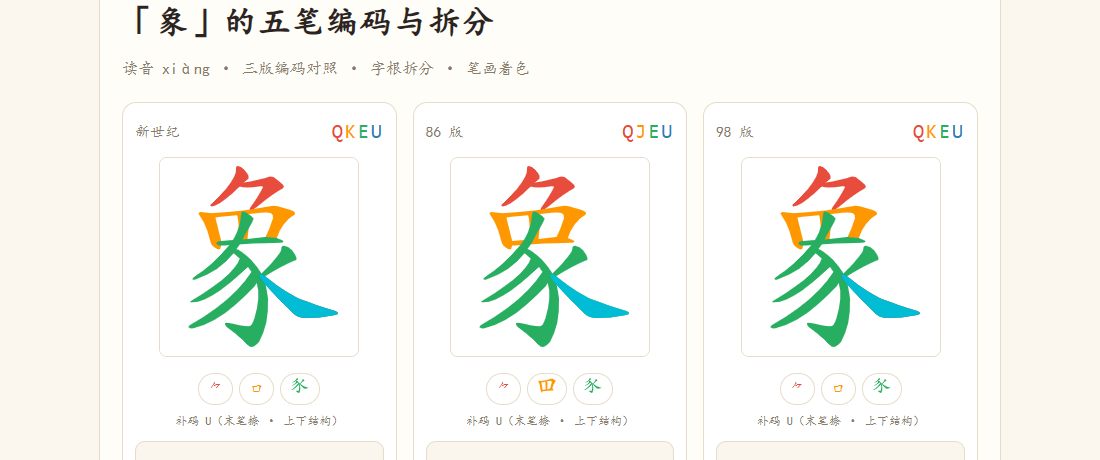
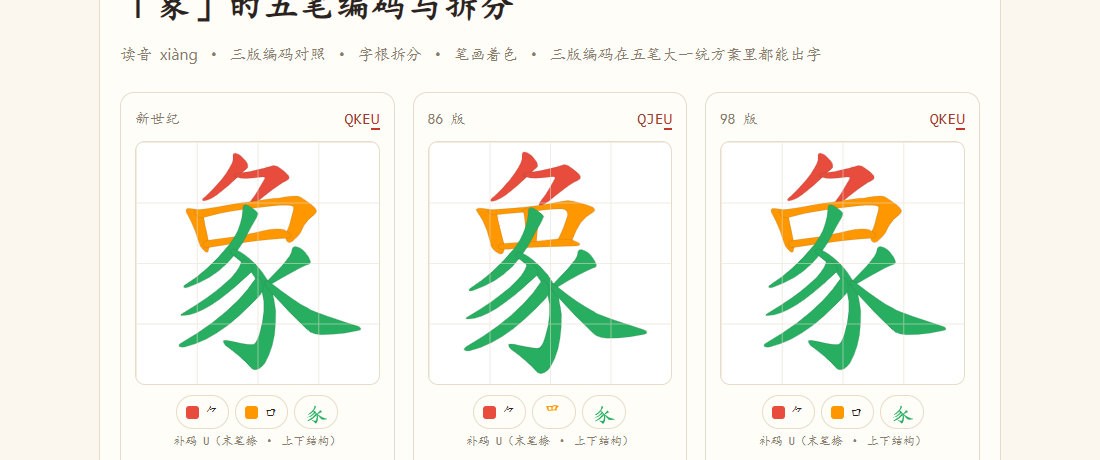
fix(char): 象字笔画数据改用主站最新字形（12 笔）

diff --git a/char/象.html b/char/象.html
@@ -103,7 +103,7 @@
 
   <div class="hero"><div class="vers"><div class="vcard">
       <div class="vhead"><span class="vtag">新世纪</span><span class="vcode">QKE<span class="supcode">U</span></span></div>
-      <div class="art"><svg viewBox="0 0 1024 1024" xmlns="http://www.w3.org/2000/svg"><rect width="1024" height="1024" fill="#fff"/><g transform="translate(0,900) scale(1,-1)"><path d="M 433.33 773.17Q 442.67 782.5 450.97 787.69Q 460.3 793.91 458.22 805.31Q 457.18 815.68 437.48 837.45Q 418.82 856.12 404.31 858.19Q 390.82 859.23 392.89 840.57Q 399.12 814.64 340.01 738.95Q 310.99 704.74 272.62 668.44Q 263.29 662.22 261.21 658.07Q 257.06 648.74 267.44 649.79Q 304.76 649.79 412.6 752.42L 433.33 773.17Z" fill="#E74C3C"/><path d="M 505.92 650.81Q 594.06 723.39 627.24 737.92Q 646.94 747.25 635.53 761.77Q 623.09 775.25 586.8 801.17Q 570.21 808.43 554.66 800.13Q 545.32 795.97 467.55 778.34Q 450.97 775.25 433.33 773.17C 402.23 769.02 382.53 761.77 412.6 752.42Q 434.37 742.06 519.4 753.47Q 528.73 754.5 530.81 751.39Q 533.91 748.29 528.73 741.02Q 496.59 681.93 474.81 654.96Q 470.67 650.81 468.59 645.63C 452 619.71 482.07 631.12 505.92 650.81Z" fill="#E74C3C"/><path d="M 263.15 613.77Q 248.8 617.5 222.29 619.98Q 207.93 622.45 202.41 618.73Q 194.68 614.4 204.62 603.88Q 241.06 554.95 258.73 476.34Q 259.84 452.19 284.14 436.09Q 305.11 420.61 311.75 431.75Q 316.16 437.94 317.27 447.24L 316.16 471.38Q 288.56 580.96 287.45 592.73C 285.24 609.45 285.24 609.45 263.15 613.77Z" fill="#FF9800"/><path d="M 604.41 486.87Q 635.32 574.16 688.33 600.78Q 709.32 612.53 690.54 624.92Q 670.66 634.21 608.82 650.31Q 587.84 655.88 561.34 649.69Q 448.69 625.53 263.15 613.77C 230.03 611.3 255.42 589.02 287.45 592.73Q 298.5 593.35 312.85 595.82Q 353.71 600.15 397.89 603.88L 443.17 608.20Q 556.91 623.06 573.48 614.40Q 587.84 606.35 584.52 589.02Q 567.95 534.53 545.87 491.20C 537.04 473.24 597.78 468.9 604.41 486.87Z" fill="#FF9800"/><path d="M 453.11 481.29Q 457.53 533.91 461.94 573.54Q 466.36 597.67 443.17 608.20C 418.87 621.2 389.05 621.83 397.89 603.88Q 404.51 600.15 410.03 477.57C 411.14 459 452 462.71 453.11 481.29Z" fill="#FF9800"/><path d="M 317.27 447.24Q 324.99 447.24 334.94 447.85Q 425.5 457.14 620.97 461.47Q 635.32 462.09 637.53 468.29Q 637.53 473.86 604.41 486.87L 545.87 491.20Q 544.77 491.81 542.55 491.20Q 496.17 486.87 453.11 481.29L 410.03 477.57Q 359.23 475.09 316.16 471.38C 283.03 468.9 284.14 446.61 317.27 447.24Z" fill="#27AE60"/><path d="M 396.16 429.08Q 406.22 445.18 418.29 462.28L 437.41 497.50Q 444.45 510.58 452.5 525.67Q 485.71 581 483.69 587.04Q 479.67 594.09 460.55 608.17C 436.41 626.28 420.31 633.32 418.29 603.14Q 417.29 559.88 397.17 513.59Q 391.13 501.52 384.09 487.44L 362.96 455.24Q 290.52 367.71 222.1 316.40Q 199.96 301.3 171.8 281.18Q 164.75 275.15 169.78 272.12Q 175.82 269.11 185.88 273.13Q 309.63 315.39 380.06 406.95L 396.16 429.08Z" fill="#27AE60"/><path d="M 524.94 302.31Q 491.74 360.66 438.42 401.91Q 411.25 424.05 396.16 429.08C 369 443.17 355.91 426.06 380.06 406.95Q 381.07 405.94 385.09 402.92Q 398.17 392.86 412.26 380.79L 454.52 336.52Q 463.57 324.44 472.63 310.36L 500.8 253.01Q 521.93 179.56 488.72 71.91Q 476.65 35.69 465.58 31.67Q 452.5 25.63 378.05 42.73Q 337.81 51.79 335.79 44.74Q 334.79 37.7 346.86 24.62Q 419.3 -27.7 449.48 -63.92Q 462.56 -80.02 475.64 -77.00Q 494.76 -73.98 512.87 -48.83Q 562.17 33.67 559.15 172.52Q 549.09 235.9 547.08 241.94L 524.94 302.31Z" fill="#27AE60"/><path d="M 412.26 380.79Q 391.13 299.29 163.74 162.46Q 145.64 152.39 167.77 153.40Q 249.27 153.4 403.2 289.23Q 409.24 295.27 454.52 336.52C 476.65 356.64 422.32 408.96 412.26 380.79Z" fill="#27AE60"/><path d="M 472.63 310.36Q 379.06 164.47 155.7 35.69Q 142.62 25.63 150.67 21.60Q 159.72 15.57 172.8 19.59Q 305.61 49.77 451.5 197.67Q 497.78 243.96 496.77 246.97Q 497.78 249.99 500.8 253.01C 516.9 278.16 489.73 335.51 472.63 310.36Z" fill="#27AE60"/><path d="M 543.05 288.22Q 640.65 346.58 689.95 367.71Q 709.07 370.72 706.04 382.80Q 702.02 398.9 683.91 421.03Q 665.8 442.16 642.66 446.19Q 627.57 447.19 626.56 427.07Q 627.57 404.93 524.94 302.31C 503.81 281.18 516.9 273.13 543.05 288.22Z" fill="#27AE60"/><path d="M 547.08 241.94Q 614.49 166.48 688.94 96.05Q 713.09 71.91 752.33 71.91Q 824.77 70.9 899.22 87.00Q 918.33 90.01 919.34 95.05Q 922.37 102.09 906.27 108.13Q 728.18 165.48 703.03 179.56Q 700.01 182.58 696.99 183.58Q 632.6 216.79 543.05 288.22C 517.9 308.34 486.71 309.35 547.08 241.94Z" fill="#555"/><path d="M 547.08 241.94Q 614.49 166.48 688.94 96.05Q 713.09 71.91 752.33 71.91Q 824.77 70.9 899.22 87.00Q 918.33 90.01 919.34 95.05Q 922.37 102.09 906.27 108.13Q 728.18 165.48 703.03 179.56Q 700.01 182.58 696.99 183.58Q 632.6 216.79 543.05 288.22C 517.9 308.34 486.71 309.35 547.08 241.94Z" fill="#00BCD4"/></g></svg></div>
+      <div class="art"><svg class="glyph" viewBox="0 0 1024 1024" xmlns="http://www.w3.org/2000/svg"></rect><g transform="translate(0, 900) scale(1, -1)"><path d="M 448 771 Q 457 780 465 785 Q 474 791 472 802 Q 471 812 452 833 Q 434 851 420 853 Q 407 854 409 836 Q 415 811 358 738 Q 330 705 293 670 Q 284 664 282 660 Q 278 651 288 652 Q 324 652 428 751 L 448 771 Z" fill="#E74C3C" stroke="#333" stroke-width="0.5" data-stroke-index="0" style="cursor: pointer; transition: fill 0.25s;"></path><path d="M 518 653 Q 603 723 635 737 Q 654 746 643 760 Q 631 773 596 798 Q 580 805 565 797 Q 556 793 481 776 Q 465 773 448 771 C 418 767 399 760 428 751 Q 449 741 531 752 Q 540 753 542 750 Q 545 747 540 740 Q 509 683 488 657 Q 484 653 482 648 C 466 623 495 634 518 653 Z" fill="#E74C3C" stroke="#333" stroke-width="0.5" data-stroke-index="1" style="cursor: pointer; transition: fill 0.25s;"></path><path d="M 261 614 Q 248 618 228 619 Q 215 622 213 616 Q 207 609 217 594 Q 242 552 264 481 Q 268 459 283 446 Q 302 425 306 442 Q 307 448 308 455 L 305 485 Q 305 486 305 489 Q 290 556 286 581 C 281 609 281 609 261 614 Z" fill="#FF9800" stroke="#333" stroke-width="0.5" data-stroke-index="2" style="cursor: pointer; transition: fill 0.25s;"></path><path d="M 631 494 L 632 492 Q 636 476 648 476 Q 661 477 669 490 Q 676 494 694 517 Q 713 566 751 592 Q 770 605 755 622 Q 739 640 693 668 Q 678 678 599 663 Q 578 663 518 653 L 482 648 Q 430 642 383 633 Q 311 620 261 614 C 231 610 257 572 286 581 Q 346 600 450 615 L 492 620 Q 639 641 662 629 Q 668 625 663 607 Q 645 538 636 523 C 627 501 627 501 631 494 Z" fill="#FF9800" stroke="#333" stroke-width="0.5" data-stroke-index="3" style="cursor: pointer; transition: fill 0.25s;"></path><path d="M 450 475 Q 526 487 631 494 C 661 496 661 507 636 523 Q 612 547 497 516 Q 482 515 469 510 L 416 500 Q 358 493 305 485 C 275 481 278 451 308 455 L 395 468 L 450 475 Z" fill="#FF9800" stroke="#333" stroke-width="0.5" data-stroke-index="4" style="cursor: pointer; transition: fill 0.25s;"></path><path d="M 428 442 Q 438 458 450 475 L 469 510 Q 476 523 484 538 Q 517 593 515 599 Q 511 606 492 620 C 468 638 452 645 450 615 Q 449 572 429 526 Q 423 514 416 500 L 395 468 Q 323 381 255 330 Q 233 315 205 295 Q 198 289 203 286 Q 209 283 219 287 Q 342 329 412 420 L 428 442 Z" fill="#27AE60" stroke="#333" stroke-width="0.5" data-stroke-index="5" style="cursor: pointer; transition: fill 0.25s;"></path><path d="M 556 316 Q 523 374 470 415 Q 443 437 428 442 C 401 456 388 439 412 420 Q 413 419 417 416 Q 430 406 444 394 L 486 350 Q 495 338 504 324 L 532 267 Q 553 194 520 87 Q 508 51 497 47 Q 484 41 410 58 Q 370 67 368 60 Q 367 53 379 40 Q 451 -12 481 -48 Q 494 -64 507 -61 Q 526 -58 544 -33 Q 593 49 590 187 Q 580 250 578 256 L 556 316 Z" fill="#27AE60" stroke="#333" stroke-width="0.5" data-stroke-index="6" style="cursor: pointer; transition: fill 0.25s;"></path><path d="M 444 394 Q 423 313 197 177 Q 179 167 201 168 Q 282 168 435 303 Q 441 309 486 350 C 508 370 454 422 444 394 Z" fill="#27AE60" stroke="#333" stroke-width="0.5" data-stroke-index="7" style="cursor: pointer; transition: fill 0.25s;"></path><path d="M 504 324 Q 411 179 189 51 Q 176 41 184 37 Q 193 31 206 35 Q 338 65 483 212 Q 529 258 528 261 Q 529 264 532 267 C 548 292 521 349 504 324 Z" fill="#27AE60" stroke="#333" stroke-width="0.5" data-stroke-index="8" style="cursor: pointer; transition: fill 0.25s;"></path><path d="M 574 302 Q 671 360 720 381 Q 739 384 736 396 Q 732 412 714 434 Q 696 455 673 459 Q 658 460 657 440 Q 658 418 556 316 C 535 295 548 287 574 302 Z" fill="#27AE60" stroke="#333" stroke-width="0.5" data-stroke-index="9" style="cursor: pointer; transition: fill 0.25s;"></path><path d="M 578 256 Q 645 181 719 111 Q 743 87 782 87 Q 854 86 928 102 Q 947 105 948 110 Q 951 117 935 123 Q 758 180 733 194 Q 730 197 727 198 Q 663 231 574 302 C 549 322 518 323 578 256 Z" fill="#27AE60" stroke="#333" stroke-width="0.5" data-stroke-index="10" style="cursor: pointer; transition: fill 0.25s;"></path></g></svg></div>
       <div class="chips"><span class="chip"><i style="background:#E74C3C"></i>⺈</span><span class="chip"><i style="background:#FF9800"></i>口</span><span class="chip fragchip"><svg class="frag" viewBox="0 0 1024 1024" width="26" height="26"><g transform="translate(0,900) scale(1,-1)"><path d="M 428 442 Q 438 458 450 475 L 469 510 Q 476 523 484 538 Q 517 593 515 599 Q 511 606 492 620 C 468 638 452 645 450 615 Q 449 572 429 526 Q 423 514 416 500 L 395 468 Q 323 381 255 330 Q 233 315 205 295 Q 198 289 203 286 Q 209 283 219 287 Q 342 329 412 420 L 428 442 Z" fill="#27AE60"/><path d="M 556 316 Q 523 374 470 415 Q 443 437 428 442 C 401 456 388 439 412 420 Q 413 419 417 416 Q 430 406 444 394 L 486 350 Q 495 338 504 324 L 532 267 Q 553 194 520 87 Q 508 51 497 47 Q 484 41 410 58 Q 370 67 368 60 Q 367 53 379 40 Q 451 -12 481 -48 Q 494 -64 507 -61 Q 526 -58 544 -33 Q 593 49 590 187 Q 580 250 578 256 L 556 316 Z" fill="#27AE60"/><path d="M 444 394 Q 423 313 197 177 Q 179 167 201 168 Q 282 168 435 303 Q 441 309 486 350 C 508 370 454 422 444 394 Z" fill="#27AE60"/><path d="M 504 324 Q 411 179 189 51 Q 176 41 184 37 Q 193 31 206 35 Q 338 65 483 212 Q 529 258 528 261 Q 529 264 532 267 C 548 292 521 349 504 324 Z" fill="#27AE60"/><path d="M 574 302 Q 671 360 720 381 Q 739 384 736 396 Q 732 412 714 434 Q 696 455 673 459 Q 658 460 657 440 Q 658 418 556 316 C 535 295 548 287 574 302 Z" fill="#27AE60"/><path d="M 578 256 Q 645 181 719 111 Q 743 87 782 87 Q 854 86 928 102 Q 947 105 948 110 Q 951 117 935 123 Q 758 180 733 194 Q 730 197 727 198 Q 663 231 574 302 C 549 322 518 323 578 256 Z" fill="#27AE60"/></g></svg></span></div>
       <div class="vsup">补码 U（末笔捺 · 上下结构）</div>
       <div class="rule-ver">
@@ -113,7 +113,7 @@
       </div>
     </div><div class="vcard">
       <div class="vhead"><span class="vtag">86 版</span><span class="vcode">QJE<span class="supcode">U</span></span></div>
-      <div class="art"><svg viewBox="0 0 1024 1024" xmlns="http://www.w3.org/2000/svg"><rect width="1024" height="1024" fill="#fff"/><g transform="translate(0,900) scale(1,-1)"><path d="M 433.33 773.17Q 442.67 782.5 450.97 787.69Q 460.3 793.91 458.22 805.31Q 457.18 815.68 437.48 837.45Q 418.82 856.12 404.31 858.19Q 390.82 859.23 392.89 840.57Q 399.12 814.64 340.01 738.95Q 310.99 704.74 272.62 668.44Q 263.29 662.22 261.21 658.07Q 257.06 648.74 267.44 649.79Q 304.76 649.79 412.6 752.42L 433.33 773.17Z" fill="#E74C3C"/><path d="M 505.92 650.81Q 594.06 723.39 627.24 737.92Q 646.94 747.25 635.53 761.77Q 623.09 775.25 586.8 801.17Q 570.21 808.43 554.66 800.13Q 545.32 795.97 467.55 778.34Q 450.97 775.25 433.33 773.17C 402.23 769.02 382.53 761.77 412.6 752.42Q 434.37 742.06 519.4 753.47Q 528.73 754.5 530.81 751.39Q 533.91 748.29 528.73 741.02Q 496.59 681.93 474.81 654.96Q 470.67 650.81 468.59 645.63C 452 619.71 482.07 631.12 505.92 650.81Z" fill="#E74C3C"/><path d="M 263.15 613.77Q 248.8 617.5 222.29 619.98Q 207.93 622.45 202.41 618.73Q 194.68 614.4 204.62 603.88Q 241.06 554.95 258.73 476.34Q 259.84 452.19 284.14 436.09Q 305.11 420.61 311.75 431.75Q 316.16 437.94 317.27 447.24L 316.16 471.38Q 288.56 580.96 287.45 592.73C 285.24 609.45 285.24 609.45 263.15 613.77Z" fill="#FF9800"/><path d="M 604.41 486.87Q 635.32 574.16 688.33 600.78Q 709.32 612.53 690.54 624.92Q 670.66 634.21 608.82 650.31Q 587.84 655.88 561.34 649.69Q 448.69 625.53 263.15 613.77C 230.03 611.3 255.42 589.02 287.45 592.73Q 298.5 593.35 312.85 595.82Q 353.71 600.15 397.89 603.88L 443.17 608.20Q 556.91 623.06 573.48 614.40Q 587.84 606.35 584.52 589.02Q 567.95 534.53 545.87 491.20C 537.04 473.24 597.78 468.9 604.41 486.87Z" fill="#FF9800"/><path d="M 453.11 481.29Q 457.53 533.91 461.94 573.54Q 466.36 597.67 443.17 608.20C 418.87 621.2 389.05 621.83 397.89 603.88Q 404.51 600.15 410.03 477.57C 411.14 459 452 462.71 453.11 481.29Z" fill="#FF9800"/><path d="M 317.27 447.24Q 324.99 447.24 334.94 447.85Q 425.5 457.14 620.97 461.47Q 635.32 462.09 637.53 468.29Q 637.53 473.86 604.41 486.87L 545.87 491.20Q 544.77 491.81 542.55 491.20Q 496.17 486.87 453.11 481.29L 410.03 477.57Q 359.23 475.09 316.16 471.38C 283.03 468.9 284.14 446.61 317.27 447.24Z" fill="#FF9800"/><path d="M 396.16 429.08Q 406.22 445.18 418.29 462.28L 437.41 497.50Q 444.45 510.58 452.5 525.67Q 485.71 581 483.69 587.04Q 479.67 594.09 460.55 608.17C 436.41 626.28 420.31 633.32 418.29 603.14Q 417.29 559.88 397.17 513.59Q 391.13 501.52 384.09 487.44L 362.96 455.24Q 290.52 367.71 222.1 316.40Q 199.96 301.3 171.8 281.18Q 164.75 275.15 169.78 272.12Q 175.82 269.11 185.88 273.13Q 309.63 315.39 380.06 406.95L 396.16 429.08Z" fill="#27AE60"/><path d="M 524.94 302.31Q 491.74 360.66 438.42 401.91Q 411.25 424.05 396.16 429.08C 369 443.17 355.91 426.06 380.06 406.95Q 381.07 405.94 385.09 402.92Q 398.17 392.86 412.26 380.79L 454.52 336.52Q 463.57 324.44 472.63 310.36L 500.8 253.01Q 521.93 179.56 488.72 71.91Q 476.65 35.69 465.58 31.67Q 452.5 25.63 378.05 42.73Q 337.81 51.79 335.79 44.74Q 334.79 37.7 346.86 24.62Q 419.3 -27.7 449.48 -63.92Q 462.56 -80.02 475.64 -77.00Q 494.76 -73.98 512.87 -48.83Q 562.17 33.67 559.15 172.52Q 549.09 235.9 547.08 241.94L 524.94 302.31Z" fill="#27AE60"/><path d="M 412.26 380.79Q 391.13 299.29 163.74 162.46Q 145.64 152.39 167.77 153.40Q 249.27 153.4 403.2 289.23Q 409.24 295.27 454.52 336.52C 476.65 356.64 422.32 408.96 412.26 380.79Z" fill="#27AE60"/><path d="M 472.63 310.36Q 379.06 164.47 155.7 35.69Q 142.62 25.63 150.67 21.60Q 159.72 15.57 172.8 19.59Q 305.61 49.77 451.5 197.67Q 497.78 243.96 496.77 246.97Q 497.78 249.99 500.8 253.01C 516.9 278.16 489.73 335.51 472.63 310.36Z" fill="#27AE60"/><path d="M 543.05 288.22Q 640.65 346.58 689.95 367.71Q 709.07 370.72 706.04 382.80Q 702.02 398.9 683.91 421.03Q 665.8 442.16 642.66 446.19Q 627.57 447.19 626.56 427.07Q 627.57 404.93 524.94 302.31C 503.81 281.18 516.9 273.13 543.05 288.22Z" fill="#27AE60"/><path d="M 547.08 241.94Q 614.49 166.48 688.94 96.05Q 713.09 71.91 752.33 71.91Q 824.77 70.9 899.22 87.00Q 918.33 90.01 919.34 95.05Q 922.37 102.09 906.27 108.13Q 728.18 165.48 703.03 179.56Q 700.01 182.58 696.99 183.58Q 632.6 216.79 543.05 288.22C 517.9 308.34 486.71 309.35 547.08 241.94Z" fill="#27AE60"/><path d="M 547.08 241.94Q 614.49 166.48 688.94 96.05Q 713.09 71.91 752.33 71.91Q 824.77 70.9 899.22 87.00Q 918.33 90.01 919.34 95.05Q 922.37 102.09 906.27 108.13Q 728.18 165.48 703.03 179.56Q 700.01 182.58 696.99 183.58Q 632.6 216.79 543.05 288.22C 517.9 308.34 486.71 309.35 547.08 241.94Z" fill="#00BCD4"/></g></svg></div>
+      <div class="art"><svg class="glyph" viewBox="0 0 1024 1024" xmlns="http://www.w3.org/2000/svg"></rect><g transform="translate(0, 900) scale(1, -1)"><path d="M 433.33 773.17Q 442.67 782.5 450.97 787.69Q 460.3 793.91 458.22 805.31Q 457.18 815.68 437.48 837.45Q 418.82 856.12 404.31 858.19Q 390.82 859.23 392.89 840.57Q 399.12 814.64 340.01 738.95Q 310.99 704.74 272.62 668.44Q 263.29 662.22 261.21 658.07Q 257.06 648.74 267.44 649.79Q 304.76 649.79 412.6 752.42L 433.33 773.17Z" fill="#E74C3C" stroke="#333" stroke-width="0.5" data-stroke-index="0" style="cursor: pointer; transition: fill 0.25s;"></path><path d="M 505.92 650.81Q 594.06 723.39 627.24 737.92Q 646.94 747.25 635.53 761.77Q 623.09 775.25 586.8 801.17Q 570.21 808.43 554.66 800.13Q 545.32 795.97 467.55 778.34Q 450.97 775.25 433.33 773.17C 402.23 769.02 382.53 761.77 412.6 752.42Q 434.37 742.06 519.4 753.47Q 528.73 754.5 530.81 751.39Q 533.91 748.29 528.73 741.02Q 496.59 681.93 474.81 654.96Q 470.67 650.81 468.59 645.63C 452 619.71 482.07 631.12 505.92 650.81Z" fill="#E74C3C" stroke="#333" stroke-width="0.5" data-stroke-index="1" style="cursor: pointer; transition: fill 0.25s;"></path><path d="M 263.15 613.77Q 248.8 617.5 222.29 619.98Q 207.93 622.45 202.41 618.73Q 194.68 614.4 204.62 603.88Q 241.06 554.95 258.73 476.34Q 259.84 452.19 284.14 436.09Q 305.11 420.61 311.75 431.75Q 316.16 437.94 317.27 447.24L 316.16 471.38Q 288.56 580.96 287.45 592.73C 285.24 609.45 285.24 609.45 263.15 613.77Z" fill="#FF9800" stroke="#333" stroke-width="0.5" data-stroke-index="2" style="cursor: pointer; transition: fill 0.25s;"></path><path d="M 604.41 486.87Q 635.32 574.16 688.33 600.78Q 709.32 612.53 690.54 624.92Q 670.66 634.21 608.82 650.31Q 587.84 655.88 561.34 649.69Q 448.69 625.53 263.15 613.77C 230.03 611.3 255.42 589.02 287.45 592.73Q 298.5 593.35 312.85 595.82Q 353.71 600.15 397.89 603.88L 443.17 608.20Q 556.91 623.06 573.48 614.40Q 587.84 606.35 584.52 589.02Q 567.95 534.53 545.87 491.20C 537.04 473.24 597.78 468.9 604.41 486.87Z" fill="#FF9800" stroke="#333" stroke-width="0.5" data-stroke-index="3" style="cursor: pointer; transition: fill 0.25s;"></path><path d="M 453.11 481.29Q 457.53 533.91 461.94 573.54Q 466.36 597.67 443.17 608.20C 418.87 621.2 389.05 621.83 397.89 603.88Q 404.51 600.15 410.03 477.57C 411.14 459 452 462.71 453.11 481.29Z" fill="#FF9800" stroke="#333" stroke-width="0.5" data-stroke-index="4" style="cursor: pointer; transition: fill 0.25s;"></path><path d="M 317.27 447.24Q 324.99 447.24 334.94 447.85Q 425.5 457.14 620.97 461.47Q 635.32 462.09 637.53 468.29Q 637.53 473.86 604.41 486.87L 545.87 491.20Q 544.77 491.81 542.55 491.20Q 496.17 486.87 453.11 481.29L 410.03 477.57Q 359.23 475.09 316.16 471.38C 283.03 468.9 284.14 446.61 317.27 447.24Z" fill="#FF9800" stroke="#333" stroke-width="0.5" data-stroke-index="5" style="cursor: pointer; transition: fill 0.25s;"></path><path d="M 396.16 429.08Q 406.22 445.18 418.29 462.28L 437.41 497.50Q 444.45 510.58 452.5 525.67Q 485.71 581 483.69 587.04Q 479.67 594.09 460.55 608.17C 436.41 626.28 420.31 633.32 418.29 603.14Q 417.29 559.88 397.17 513.59Q 391.13 501.52 384.09 487.44L 362.96 455.24Q 290.52 367.71 222.1 316.40Q 199.96 301.3 171.8 281.18Q 164.75 275.15 169.78 272.12Q 175.82 269.11 185.88 273.13Q 309.63 315.39 380.06 406.95L 396.16 429.08Z" fill="#27AE60" stroke="#333" stroke-width="0.5" data-stroke-index="6" style="cursor: pointer; transition: fill 0.25s;"></path><path d="M 524.94 302.31Q 491.74 360.66 438.42 401.91Q 411.25 424.05 396.16 429.08C 369 443.17 355.91 426.06 380.06 406.95Q 381.07 405.94 385.09 402.92Q 398.17 392.86 412.26 380.79L 454.52 336.52Q 463.57 324.44 472.63 310.36L 500.8 253.01Q 521.93 179.56 488.72 71.91Q 476.65 35.69 465.58 31.67Q 452.5 25.63 378.05 42.73Q 337.81 51.79 335.79 44.74Q 334.79 37.7 346.86 24.62Q 419.3 -27.7 449.48 -63.92Q 462.56 -80.02 475.64 -77.00Q 494.76 -73.98 512.87 -48.83Q 562.17 33.67 559.15 172.52Q 549.09 235.9 547.08 241.94L 524.94 302.31Z" fill="#27AE60" stroke="#333" stroke-width="0.5" data-stroke-index="7" style="cursor: pointer; transition: fill 0.25s;"></path><path d="M 412.26 380.79Q 391.13 299.29 163.74 162.46Q 145.64 152.39 167.77 153.40Q 249.27 153.4 403.2 289.23Q 409.24 295.27 454.52 336.52C 476.65 356.64 422.32 408.96 412.26 380.79Z" fill="#27AE60" stroke="#333" stroke-width="0.5" data-stroke-index="8" style="cursor: pointer; transition: fill 0.25s;"></path><path d="M 472.63 310.36Q 379.06 164.47 155.7 35.69Q 142.62 25.63 150.67 21.60Q 159.72 15.57 172.8 19.59Q 305.61 49.77 451.5 197.67Q 497.78 243.96 496.77 246.97Q 497.78 249.99 500.8 253.01C 516.9 278.16 489.73 335.51 472.63 310.36Z" fill="#27AE60" stroke="#333" stroke-width="0.5" data-stroke-index="9" style="cursor: pointer; transition: fill 0.25s;"></path><path d="M 543.05 288.22Q 640.65 346.58 689.95 367.71Q 709.07 370.72 706.04 382.80Q 702.02 398.9 683.91 421.03Q 665.8 442.16 642.66 446.19Q 627.57 447.19 626.56 427.07Q 627.57 404.93 524.94 302.31C 503.81 281.18 516.9 273.13 543.05 288.22Z" fill="#27AE60" stroke="#333" stroke-width="0.5" data-stroke-index="10" style="cursor: pointer; transition: fill 0.25s;"></path><path d="M 547.08 241.94Q 614.49 166.48 688.94 96.05Q 713.09 71.91 752.33 71.91Q 824.77 70.9 899.22 87.00Q 918.33 90.01 919.34 95.05Q 922.37 102.09 906.27 108.13Q 728.18 165.48 703.03 179.56Q 700.01 182.58 696.99 183.58Q 632.6 216.79 543.05 288.22C 517.9 308.34 486.71 309.35 547.08 241.94Z" fill="#27AE60" stroke="#333" stroke-width="0.5" data-stroke-index="11" style="cursor: pointer; transition: fill 0.25s;"></path></g></svg></div>
       <div class="chips"><span class="chip"><i style="background:#E74C3C"></i>⺈</span><span class="chip fragchip"><svg class="frag" viewBox="0 0 1024 1024" width="26" height="26"><g transform="translate(0,900) scale(1,-1)"><path d="M 263.15 613.77Q 248.8 617.5 222.29 619.98Q 207.93 622.45 202.41 618.73Q 194.68 614.4 204.62 603.88Q 241.06 554.95 258.73 476.34Q 259.84 452.19 284.14 436.09Q 305.11 420.61 311.75 431.75Q 316.16 437.94 317.27 447.24L 316.16 471.38Q 288.56 580.96 287.45 592.73C 285.24 609.45 285.24 609.45 263.15 613.77Z" fill="#FF9800"/><path d="M 604.41 486.87Q 635.32 574.16 688.33 600.78Q 709.32 612.53 690.54 624.92Q 670.66 634.21 608.82 650.31Q 587.84 655.88 561.34 649.69Q 448.69 625.53 263.15 613.77C 230.03 611.3 255.42 589.02 287.45 592.73Q 298.5 593.35 312.85 595.82Q 353.71 600.15 397.89 603.88L 443.17 608.20Q 556.91 623.06 573.48 614.40Q 587.84 606.35 584.52 589.02Q 567.95 534.53 545.87 491.20C 537.04 473.24 597.78 468.9 604.41 486.87Z" fill="#FF9800"/><path d="M 453.11 481.29Q 457.53 533.91 461.94 573.54Q 466.36 597.67 443.17 608.20C 418.87 621.2 389.05 621.83 397.89 603.88Q 404.51 600.15 410.03 477.57C 411.14 459 452 462.71 453.11 481.29Z" fill="#FF9800"/><path d="M 317.27 447.24Q 324.99 447.24 334.94 447.85Q 425.5 457.14 620.97 461.47Q 635.32 462.09 637.53 468.29Q 637.53 473.86 604.41 486.87L 545.87 491.20Q 544.77 491.81 542.55 491.20Q 496.17 486.87 453.11 481.29L 410.03 477.57Q 359.23 475.09 316.16 471.38C 283.03 468.9 284.14 446.61 317.27 447.24Z" fill="#FF9800"/></g></svg></span><span class="chip fragchip"><svg class="frag" viewBox="0 0 1024 1024" width="26" height="26"><g transform="translate(0,900) scale(1,-1)"><path d="M 396.16 429.08Q 406.22 445.18 418.29 462.28L 437.41 497.50Q 444.45 510.58 452.5 525.67Q 485.71 581 483.69 587.04Q 479.67 594.09 460.55 608.17C 436.41 626.28 420.31 633.32 418.29 603.14Q 417.29 559.88 397.17 513.59Q 391.13 501.52 384.09 487.44L 362.96 455.24Q 290.52 367.71 222.1 316.40Q 199.96 301.3 171.8 281.18Q 164.75 275.15 169.78 272.12Q 175.82 269.11 185.88 273.13Q 309.63 315.39 380.06 406.95L 396.16 429.08Z" fill="#27AE60"/><path d="M 524.94 302.31Q 491.74 360.66 438.42 401.91Q 411.25 424.05 396.16 429.08C 369 443.17 355.91 426.06 380.06 406.95Q 381.07 405.94 385.09 402.92Q 398.17 392.86 412.26 380.79L 454.52 336.52Q 463.57 324.44 472.63 310.36L 500.8 253.01Q 521.93 179.56 488.72 71.91Q 476.65 35.69 465.58 31.67Q 452.5 25.63 378.05 42.73Q 337.81 51.79 335.79 44.74Q 334.79 37.7 346.86 24.62Q 419.3 -27.7 449.48 -63.92Q 462.56 -80.02 475.64 -77.00Q 494.76 -73.98 512.87 -48.83Q 562.17 33.67 559.15 172.52Q 549.09 235.9 547.08 241.94L 524.94 302.31Z" fill="#27AE60"/><path d="M 412.26 380.79Q 391.13 299.29 163.74 162.46Q 145.64 152.39 167.77 153.40Q 249.27 153.4 403.2 289.23Q 409.24 295.27 454.52 336.52C 476.65 356.64 422.32 408.96 412.26 380.79Z" fill="#27AE60"/><path d="M 472.63 310.36Q 379.06 164.47 155.7 35.69Q 142.62 25.63 150.67 21.60Q 159.72 15.57 172.8 19.59Q 305.61 49.77 451.5 197.67Q 497.78 243.96 496.77 246.97Q 497.78 249.99 500.8 253.01C 516.9 278.16 489.73 335.51 472.63 310.36Z" fill="#27AE60"/><path d="M 543.05 288.22Q 640.65 346.58 689.95 367.71Q 709.07 370.72 706.04 382.80Q 702.02 398.9 683.91 421.03Q 665.8 442.16 642.66 446.19Q 627.57 447.19 626.56 427.07Q 627.57 404.93 524.94 302.31C 503.81 281.18 516.9 273.13 543.05 288.22Z" fill="#27AE60"/><path d="M 547.08 241.94Q 614.49 166.48 688.94 96.05Q 713.09 71.91 752.33 71.91Q 824.77 70.9 899.22 87.00Q 918.33 90.01 919.34 95.05Q 922.37 102.09 906.27 108.13Q 728.18 165.48 703.03 179.56Q 700.01 182.58 696.99 183.58Q 632.6 216.79 543.05 288.22C 517.9 308.34 486.71 309.35 547.08 241.94Z" fill="#27AE60"/></g></svg></span></div>
       <div class="vsup">补码 U（末笔捺 · 上下结构）</div>
       <div class="rule-ver">
@@ -123,7 +123,7 @@
       </div>
     </div><div class="vcard">
       <div class="vhead"><span class="vtag">98 版</span><span class="vcode">QKE<span class="supcode">U</span></span></div>
-      <div class="art"><svg viewBox="0 0 1024 1024" xmlns="http://www.w3.org/2000/svg"><rect width="1024" height="1024" fill="#fff"/><g transform="translate(0,900) scale(1,-1)"><path d="M 433.33 773.17Q 442.67 782.5 450.97 787.69Q 460.3 793.91 458.22 805.31Q 457.18 815.68 437.48 837.45Q 418.82 856.12 404.31 858.19Q 390.82 859.23 392.89 840.57Q 399.12 814.64 340.01 738.95Q 310.99 704.74 272.62 668.44Q 263.29 662.22 261.21 658.07Q 257.06 648.74 267.44 649.79Q 304.76 649.79 412.6 752.42L 433.33 773.17Z" fill="#E74C3C"/><path d="M 505.92 650.81Q 594.06 723.39 627.24 737.92Q 646.94 747.25 635.53 761.77Q 623.09 775.25 586.8 801.17Q 570.21 808.43 554.66 800.13Q 545.32 795.97 467.55 778.34Q 450.97 775.25 433.33 773.17C 402.23 769.02 382.53 761.77 412.6 752.42Q 434.37 742.06 519.4 753.47Q 528.73 754.5 530.81 751.39Q 533.91 748.29 528.73 741.02Q 496.59 681.93 474.81 654.96Q 470.67 650.81 468.59 645.63C 452 619.71 482.07 631.12 505.92 650.81Z" fill="#E74C3C"/><path d="M 263.15 613.77Q 248.8 617.5 222.29 619.98Q 207.93 622.45 202.41 618.73Q 194.68 614.4 204.62 603.88Q 241.06 554.95 258.73 476.34Q 259.84 452.19 284.14 436.09Q 305.11 420.61 311.75 431.75Q 316.16 437.94 317.27 447.24L 316.16 471.38Q 288.56 580.96 287.45 592.73C 285.24 609.45 285.24 609.45 263.15 613.77Z" fill="#FF9800"/><path d="M 604.41 486.87Q 635.32 574.16 688.33 600.78Q 709.32 612.53 690.54 624.92Q 670.66 634.21 608.82 650.31Q 587.84 655.88 561.34 649.69Q 448.69 625.53 263.15 613.77C 230.03 611.3 255.42 589.02 287.45 592.73Q 298.5 593.35 312.85 595.82Q 353.71 600.15 397.89 603.88L 443.17 608.20Q 556.91 623.06 573.48 614.40Q 587.84 606.35 584.52 589.02Q 567.95 534.53 545.87 491.20C 537.04 473.24 597.78 468.9 604.41 486.87Z" fill="#FF9800"/><path d="M 453.11 481.29Q 457.53 533.91 461.94 573.54Q 466.36 597.67 443.17 608.20C 418.87 621.2 389.05 621.83 397.89 603.88Q 404.51 600.15 410.03 477.57C 411.14 459 452 462.71 453.11 481.29Z" fill="#FF9800"/><path d="M 317.27 447.24Q 324.99 447.24 334.94 447.85Q 425.5 457.14 620.97 461.47Q 635.32 462.09 637.53 468.29Q 637.53 473.86 604.41 486.87L 545.87 491.20Q 544.77 491.81 542.55 491.20Q 496.17 486.87 453.11 481.29L 410.03 477.57Q 359.23 475.09 316.16 471.38C 283.03 468.9 284.14 446.61 317.27 447.24Z" fill="#27AE60"/><path d="M 396.16 429.08Q 406.22 445.18 418.29 462.28L 437.41 497.50Q 444.45 510.58 452.5 525.67Q 485.71 581 483.69 587.04Q 479.67 594.09 460.55 608.17C 436.41 626.28 420.31 633.32 418.29 603.14Q 417.29 559.88 397.17 513.59Q 391.13 501.52 384.09 487.44L 362.96 455.24Q 290.52 367.71 222.1 316.40Q 199.96 301.3 171.8 281.18Q 164.75 275.15 169.78 272.12Q 175.82 269.11 185.88 273.13Q 309.63 315.39 380.06 406.95L 396.16 429.08Z" fill="#27AE60"/><path d="M 524.94 302.31Q 491.74 360.66 438.42 401.91Q 411.25 424.05 396.16 429.08C 369 443.17 355.91 426.06 380.06 406.95Q 381.07 405.94 385.09 402.92Q 398.17 392.86 412.26 380.79L 454.52 336.52Q 463.57 324.44 472.63 310.36L 500.8 253.01Q 521.93 179.56 488.72 71.91Q 476.65 35.69 465.58 31.67Q 452.5 25.63 378.05 42.73Q 337.81 51.79 335.79 44.74Q 334.79 37.7 346.86 24.62Q 419.3 -27.7 449.48 -63.92Q 462.56 -80.02 475.64 -77.00Q 494.76 -73.98 512.87 -48.83Q 562.17 33.67 559.15 172.52Q 549.09 235.9 547.08 241.94L 524.94 302.31Z" fill="#27AE60"/><path d="M 412.26 380.79Q 391.13 299.29 163.74 162.46Q 145.64 152.39 167.77 153.40Q 249.27 153.4 403.2 289.23Q 409.24 295.27 454.52 336.52C 476.65 356.64 422.32 408.96 412.26 380.79Z" fill="#27AE60"/><path d="M 472.63 310.36Q 379.06 164.47 155.7 35.69Q 142.62 25.63 150.67 21.60Q 159.72 15.57 172.8 19.59Q 305.61 49.77 451.5 197.67Q 497.78 243.96 496.77 246.97Q 497.78 249.99 500.8 253.01C 516.9 278.16 489.73 335.51 472.63 310.36Z" fill="#27AE60"/><path d="M 543.05 288.22Q 640.65 346.58 689.95 367.71Q 709.07 370.72 706.04 382.80Q 702.02 398.9 683.91 421.03Q 665.8 442.16 642.66 446.19Q 627.57 447.19 626.56 427.07Q 627.57 404.93 524.94 302.31C 503.81 281.18 516.9 273.13 543.05 288.22Z" fill="#27AE60"/><path d="M 547.08 241.94Q 614.49 166.48 688.94 96.05Q 713.09 71.91 752.33 71.91Q 824.77 70.9 899.22 87.00Q 918.33 90.01 919.34 95.05Q 922.37 102.09 906.27 108.13Q 728.18 165.48 703.03 179.56Q 700.01 182.58 696.99 183.58Q 632.6 216.79 543.05 288.22C 517.9 308.34 486.71 309.35 547.08 241.94Z" fill="#555"/><path d="M 547.08 241.94Q 614.49 166.48 688.94 96.05Q 713.09 71.91 752.33 71.91Q 824.77 70.9 899.22 87.00Q 918.33 90.01 919.34 95.05Q 922.37 102.09 906.27 108.13Q 728.18 165.48 703.03 179.56Q 700.01 182.58 696.99 183.58Q 632.6 216.79 543.05 288.22C 517.9 308.34 486.71 309.35 547.08 241.94Z" fill="#00BCD4"/></g></svg></div>
+      <div class="art"><svg class="glyph" viewBox="0 0 1024 1024" xmlns="http://www.w3.org/2000/svg"></rect><g transform="translate(0, 900) scale(1, -1)"><path d="M 448 771 Q 457 780 465 785 Q 474 791 472 802 Q 471 812 452 833 Q 434 851 420 853 Q 407 854 409 836 Q 415 811 358 738 Q 330 705 293 670 Q 284 664 282 660 Q 278 651 288 652 Q 324 652 428 751 L 448 771 Z" fill="#E74C3C" stroke="#333" stroke-width="0.5" data-stroke-index="0" style="cursor: pointer; transition: fill 0.25s;"></path><path d="M 518 653 Q 603 723 635 737 Q 654 746 643 760 Q 631 773 596 798 Q 580 805 565 797 Q 556 793 481 776 Q 465 773 448 771 C 418 767 399 760 428 751 Q 449 741 531 752 Q 540 753 542 750 Q 545 747 540 740 Q 509 683 488 657 Q 484 653 482 648 C 466 623 495 634 518 653 Z" fill="#E74C3C" stroke="#333" stroke-width="0.5" data-stroke-index="1" style="cursor: pointer; transition: fill 0.25s;"></path><path d="M 261 614 Q 248 618 228 619 Q 215 622 213 616 Q 207 609 217 594 Q 242 552 264 481 Q 268 459 283 446 Q 302 425 306 442 Q 307 448 308 455 L 305 485 Q 305 486 305 489 Q 290 556 286 581 C 281 609 281 609 261 614 Z" fill="#FF9800" stroke="#333" stroke-width="0.5" data-stroke-index="2" style="cursor: pointer; transition: fill 0.25s;"></path><path d="M 631 494 L 632 492 Q 636 476 648 476 Q 661 477 669 490 Q 676 494 694 517 Q 713 566 751 592 Q 770 605 755 622 Q 739 640 693 668 Q 678 678 599 663 Q 578 663 518 653 L 482 648 Q 430 642 383 633 Q 311 620 261 614 C 231 610 257 572 286 581 Q 346 600 450 615 L 492 620 Q 639 641 662 629 Q 668 625 663 607 Q 645 538 636 523 C 627 501 627 501 631 494 Z" fill="#FF9800" stroke="#333" stroke-width="0.5" data-stroke-index="3" style="cursor: pointer; transition: fill 0.25s;"></path><path d="M 450 475 Q 526 487 631 494 C 661 496 661 507 636 523 Q 612 547 497 516 Q 482 515 469 510 L 416 500 Q 358 493 305 485 C 275 481 278 451 308 455 L 395 468 L 450 475 Z" fill="#FF9800" stroke="#333" stroke-width="0.5" data-stroke-index="4" style="cursor: pointer; transition: fill 0.25s;"></path><path d="M 428 442 Q 438 458 450 475 L 469 510 Q 476 523 484 538 Q 517 593 515 599 Q 511 606 492 620 C 468 638 452 645 450 615 Q 449 572 429 526 Q 423 514 416 500 L 395 468 Q 323 381 255 330 Q 233 315 205 295 Q 198 289 203 286 Q 209 283 219 287 Q 342 329 412 420 L 428 442 Z" fill="#27AE60" stroke="#333" stroke-width="0.5" data-stroke-index="5" style="cursor: pointer; transition: fill 0.25s;"></path><path d="M 556 316 Q 523 374 470 415 Q 443 437 428 442 C 401 456 388 439 412 420 Q 413 419 417 416 Q 430 406 444 394 L 486 350 Q 495 338 504 324 L 532 267 Q 553 194 520 87 Q 508 51 497 47 Q 484 41 410 58 Q 370 67 368 60 Q 367 53 379 40 Q 451 -12 481 -48 Q 494 -64 507 -61 Q 526 -58 544 -33 Q 593 49 590 187 Q 580 250 578 256 L 556 316 Z" fill="#27AE60" stroke="#333" stroke-width="0.5" data-stroke-index="6" style="cursor: pointer; transition: fill 0.25s;"></path><path d="M 444 394 Q 423 313 197 177 Q 179 167 201 168 Q 282 168 435 303 Q 441 309 486 350 C 508 370 454 422 444 394 Z" fill="#27AE60" stroke="#333" stroke-width="0.5" data-stroke-index="7" style="cursor: pointer; transition: fill 0.25s;"></path><path d="M 504 324 Q 411 179 189 51 Q 176 41 184 37 Q 193 31 206 35 Q 338 65 483 212 Q 529 258 528 261 Q 529 264 532 267 C 548 292 521 349 504 324 Z" fill="#27AE60" stroke="#333" stroke-width="0.5" data-stroke-index="8" style="cursor: pointer; transition: fill 0.25s;"></path><path d="M 574 302 Q 671 360 720 381 Q 739 384 736 396 Q 732 412 714 434 Q 696 455 673 459 Q 658 460 657 440 Q 658 418 556 316 C 535 295 548 287 574 302 Z" fill="#27AE60" stroke="#333" stroke-width="0.5" data-stroke-index="9" style="cursor: pointer; transition: fill 0.25s;"></path><path d="M 578 256 Q 645 181 719 111 Q 743 87 782 87 Q 854 86 928 102 Q 947 105 948 110 Q 951 117 935 123 Q 758 180 733 194 Q 730 197 727 198 Q 663 231 574 302 C 549 322 518 323 578 256 Z" fill="#27AE60" stroke="#333" stroke-width="0.5" data-stroke-index="10" style="cursor: pointer; transition: fill 0.25s;"></path></g></svg></div>
       <div class="chips"><span class="chip"><i style="background:#E74C3C"></i>⺈</span><span class="chip"><i style="background:#FF9800"></i>口</span><span class="chip fragchip"><svg class="frag" viewBox="0 0 1024 1024" width="26" height="26"><g transform="translate(0,900) scale(1,-1)"><path d="M 428 442 Q 438 458 450 475 L 469 510 Q 476 523 484 538 Q 517 593 515 599 Q 511 606 492 620 C 468 638 452 645 450 615 Q 449 572 429 526 Q 423 514 416 500 L 395 468 Q 323 381 255 330 Q 233 315 205 295 Q 198 289 203 286 Q 209 283 219 287 Q 342 329 412 420 L 428 442 Z" fill="#27AE60"/><path d="M 556 316 Q 523 374 470 415 Q 443 437 428 442 C 401 456 388 439 412 420 Q 413 419 417 416 Q 430 406 444 394 L 486 350 Q 495 338 504 324 L 532 267 Q 553 194 520 87 Q 508 51 497 47 Q 484 41 410 58 Q 370 67 368 60 Q 367 53 379 40 Q 451 -12 481 -48 Q 494 -64 507 -61 Q 526 -58 544 -33 Q 593 49 590 187 Q 580 250 578 256 L 556 316 Z" fill="#27AE60"/><path d="M 444 394 Q 423 313 197 177 Q 179 167 201 168 Q 282 168 435 303 Q 441 309 486 350 C 508 370 454 422 444 394 Z" fill="#27AE60"/><path d="M 504 324 Q 411 179 189 51 Q 176 41 184 37 Q 193 31 206 35 Q 338 65 483 212 Q 529 258 528 261 Q 529 264 532 267 C 548 292 521 349 504 324 Z" fill="#27AE60"/><path d="M 574 302 Q 671 360 720 381 Q 739 384 736 396 Q 732 412 714 434 Q 696 455 673 459 Q 658 460 657 440 Q 658 418 556 316 C 535 295 548 287 574 302 Z" fill="#27AE60"/><path d="M 578 256 Q 645 181 719 111 Q 743 87 782 87 Q 854 86 928 102 Q 947 105 948 110 Q 951 117 935 123 Q 758 180 733 194 Q 730 197 727 198 Q 663 231 574 302 C 549 322 518 323 578 256 Z" fill="#27AE60"/></g></svg></span></div>
       <div class="vsup">补码 U（末笔捺 · 上下结构）</div>
       <div class="rule-ver">

diff --git a/tools/extract-char-svg-from-app.js b/tools/extract-char-svg-from-app.js
@@ -1,0 +1,62 @@
+// 从主站应用里抓取「象」的三版 SVG，覆盖我们本地文件
+const http = require('node:http');
+const fs = require('node:fs');
+const path = require('node:path');
+const { chromium } = require('C:/Users/10061/AppData/Roaming/npm/node_modules/@playwright/cli/node_modules/playwright-core');
+
+const ROOT = path.resolve('D:/Users/10061/Downloads/wubi');
+const MIME = { '.html': 'text/html; charset=utf-8', '.js': 'text/javascript; charset=utf-8', '.svg': 'image/svg+xml', '.json': 'application/json', '.ttf': 'font/ttf' };
+const server = http.createServer((req, res) => {
+  const p = decodeURIComponent(req.url.split('?')[0]);
+  let f = path.resolve(path.join(ROOT, p));
+  if (fs.existsSync(f) && fs.statSync(f).isDirectory()) f = path.join(f, 'index.html');
+  if (!f.startsWith(ROOT) || !fs.existsSync(f)) { res.writeHead(404); res.end(); return; }
+  res.writeHead(200, { 'Content-Type': MIME[path.extname(f).toLowerCase()] || 'application/octet-stream' });
+  fs.createReadStream(f).pipe(res);
+});
+
+const CHAR = process.argv[2] || '象';
+
+server.listen(0, '127.0.0.1', async () => {
+  const port = server.address().port;
+  const browser = await chromium.launch({
+    executablePath: process.env.LOCALAPPDATA + '\\ms-playwright\\chromium-1228\\chrome-win64\\chrome.exe',
+    headless: true,
+  });
+  const page = await browser.newPage({ viewport: { width: 1300, height: 900 } });
+  await page.goto(`http://127.0.0.1:${port}/index.html`, { waitUntil: 'load', timeout: 90000 });
+  await page.waitForTimeout(2500);
+
+  // 切到目标字
+  await page.evaluate((ch) => {
+    const input = document.getElementById('char-input');
+    input.value = ch;
+    input.dispatchEvent(new Event('input', { bubbles: true }));
+    if (typeof window.renderChar === 'function') window.renderChar(ch);
+  }, CHAR);
+  await page.waitForTimeout(1500);
+
+  for (const [ver, label] of [['86', '86'], ['98', '98'], ['06', '06']]) {
+    // 切换版本
+    await page.evaluate((v) => {
+      if (typeof window.setWubiVersion === 'function') window.setWubiVersion(v);
+      else {
+        const btns = [...document.querySelectorAll('button')];
+        const b = btns.find((x) => x.textContent.trim() === (v === '06' ? '新世纪' : v + ' 版'));
+        if (b) b.click();
+      }
+    }, ver);
+    await page.waitForTimeout(800);
+    const svg = await page.evaluate(() => {
+      const el = document.getElementById('char-svg');
+      return el ? el.outerHTML : null;
+    });
+    if (!svg) { console.log(ver, '取不到 SVG'); continue; }
+    const full = svg.replace('<svg id="char-svg"', '<svg xmlns="http://www.w3.org/2000/svg"');
+    const out = path.join(ROOT, 'svg', `${CHAR}-${ver}.svg`);
+    fs.writeFileSync(out, full, 'utf8');
+    console.log(ver, '已写入', Math.round(full.length / 1024) + 'KB', '| path 数:', (full.match(/<path/g) || []).length);
+  }
+  await browser.close();
+  server.close();
+});

diff --git a/tools/patch-char-page-glyph.js b/tools/patch-char-page-glyph.js
@@ -1,0 +1,34 @@
+// 用新抓取的 SVG 更新单字页里「象」的字形
+const fs = require('node:fs');
+const path = require('node:path');
+const ROOT = 'D:/Users/10061/Downloads/wubi';
+const CHAR = process.argv[2] || '象';
+
+const pagePath = path.join(ROOT, 'char', `${CHAR}.html`);
+let t = fs.readFileSync(pagePath, 'utf8');
+
+const labels = { '06': '新世纪', '86': '86 版', '98': '98 版' };
+let replaced = 0;
+
+for (const ver of ['06', '86', '98']) {
+  const svgRaw = fs.readFileSync(path.join(ROOT, 'svg', `${CHAR}-${ver}.svg`), 'utf8');
+  const inner = svgRaw
+    .replace(/^[\s\S]*?<svg[^>]*>/, '')
+    .replace(/<\/svg>\s*$/, '');
+  // 去掉白底矩形，保留笔画
+  const cleaned = inner.replace(/<rect[^>]*>/g, '');
+  const newSvg = `<svg class="glyph" viewBox="0 0 1024 1024" xmlns="http://www.w3.org/2000/svg">${cleaned}</svg>`;
+
+  // 找到该版本卡片里的旧 svg 并替换
+  const label = labels[ver];
+  const labelIdx = t.indexOf(`>${label}<`);
+  if (labelIdx < 0) { console.log(ver, '未找到版本卡片'); continue; }
+  const svgStart = t.indexOf('<svg', labelIdx);
+  const svgEnd = t.indexOf('</svg>', svgStart);
+  if (svgStart < 0 || svgEnd < 0) { console.log(ver, '未找到 svg'); continue; }
+  t = t.slice(0, svgStart) + newSvg + t.slice(svgEnd + 6);
+  replaced += 1;
+}
+
+fs.writeFileSync(pagePath, t, 'utf8');
+console.log('替换字形:', replaced, '| 页面大小 KB:', Math.round(t.length / 1024));

diff --git a/tools/inspect-xiang-strokes.js b/tools/inspect-xiang-strokes.js
@@ -1,0 +1,9 @@
+const fs = require('node:fs');
+const p = 'D:/Users/10061/Downloads/wubi/data/chars/象.json';
+if (!fs.existsSync(p)) { console.log('缺 data/chars/象.json'); process.exit(0); }
+const j = JSON.parse(fs.readFileSync(p, 'utf8'));
+console.log('strokes:', (j.strokes || []).length, '| medians:', (j.medians || []).length, '| radStrokes:', (j.radStrokes || []).length);
+const svg = fs.readFileSync('D:/Users/10061/Downloads/wubi/svg/象-06.svg', 'utf8');
+console.log('svg path 数:', (svg.match(/<path/g) || []).length);
+console.log('json 文件时间:', fs.statSync(p).mtime.toISOString());
+console.log('svg 文件时间:', fs.statSync('D:/Users/10061/Downloads/wubi/svg/象-06.svg').mtime.toISOString());

diff --git a/tools/check-new-xiang.js b/tools/check-new-xiang.js
@@ -1,0 +1,6 @@
+const fs = require('node:fs');
+for (const v of ['86', '98', '06']) {
+  const t = fs.readFileSync(`D:/Users/10061/Downloads/wubi/svg/象-${v}.svg`, 'utf8');
+  const fills = [...new Set([...t.matchAll(/fill="(#[0-9A-Fa-f]{3,6})"/g)].map((m) => m[1]))];
+  console.log(v, 'fills:', fills.join(' '), '| path:', (t.match(/<path/g) || []).length);
+}
